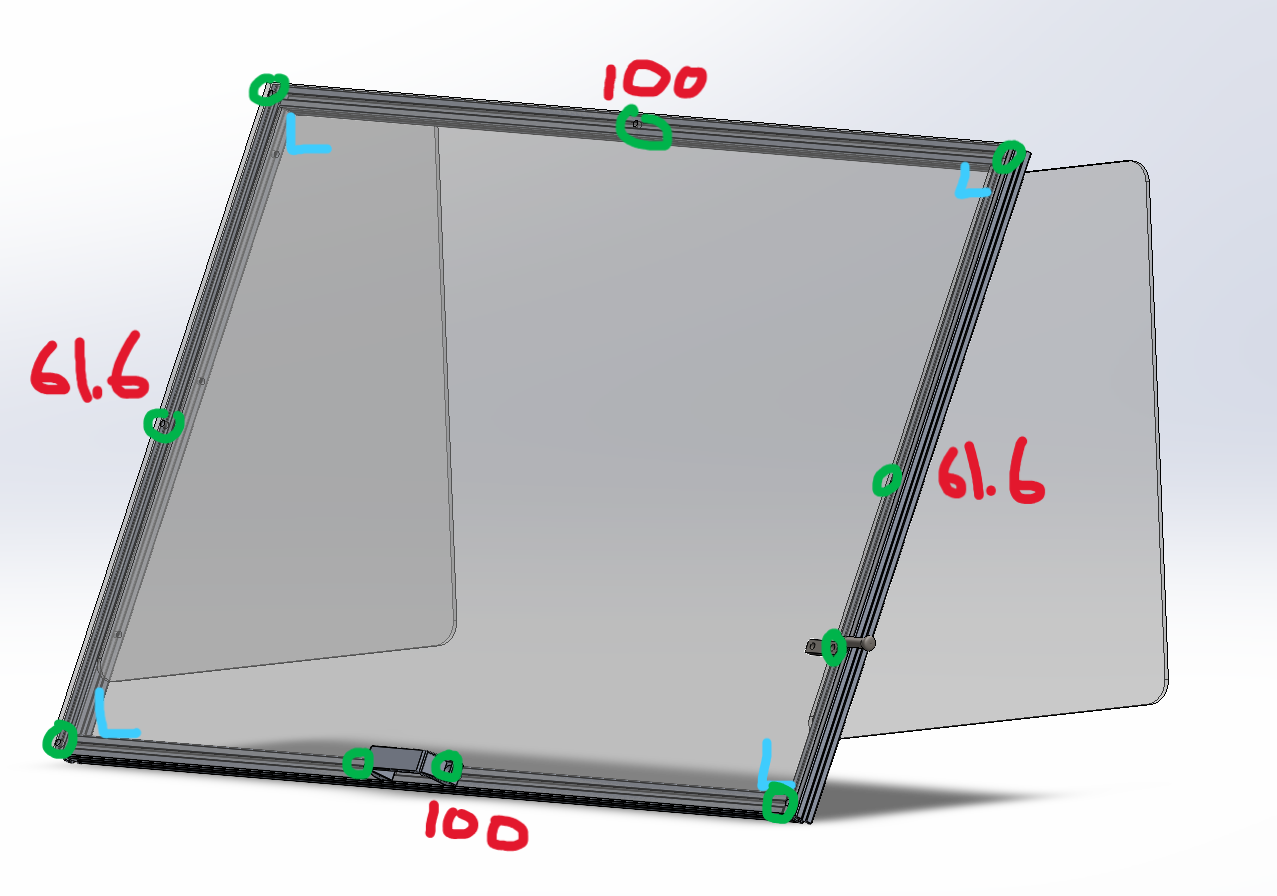
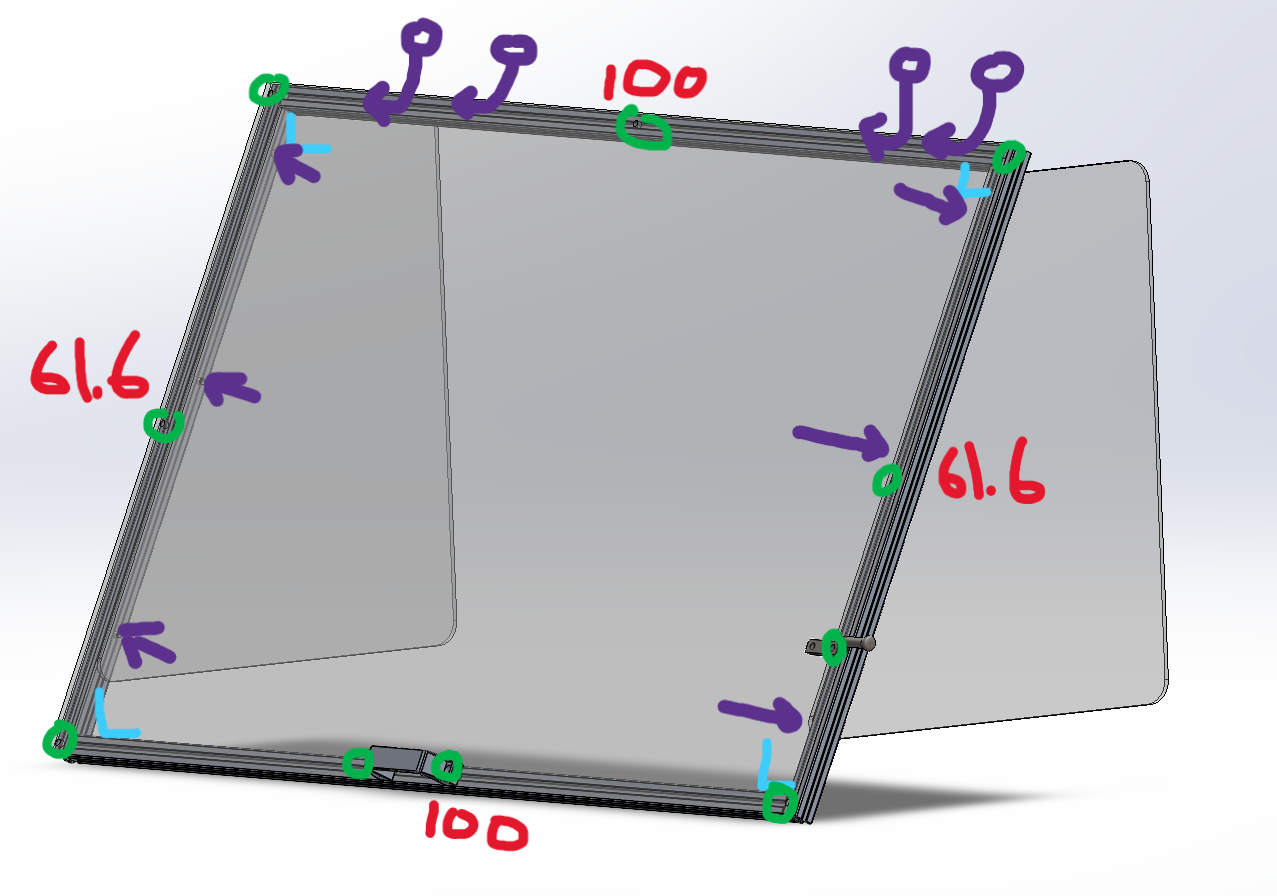
Edited assembly instructions and fixed bugs

diff --git a/docs/assembly_instructions.md b/docs/assembly_instructions.md
@@ -4,7 +4,7 @@ This document attempts to walk through the process of assembling the system with
 
 ## General Notes
 
-- The economy T square nuts used for the 8020 pieces must be inserted before the channel that is cut into the 8020 profile that holds them in place is closed (i.e. they are not roll-in nuts). Before securing two 8020 profiles together, make sure all of the required T nuts have been placed in the profile. To move the T nuts within the profile so that they line up with holes in the acrylic, or L brackets.
+- The economy T square nuts used for the 8020 pieces must be inserted before the channel that is cut into the 8020 profile that holds them in place is closed (i.e. they are not roll-in nuts). Before securing two 8020 profiles together, make sure all of the required T nuts have been placed in the profile. A small allen key can be very useful to move the T nuts within the profile so that they line up with holes in the acrylic or L brackets.
 - M5-0.8 8mm screws are used to connect the L brackets with the 20 series beams.
 - M5-0.8 10mm screws are used to connect the acrylic panels with the 20 series beams.
 - **Do not** overtighten screws and nuts that hold acrylic to the 20 series beams. The acrylic will crack! The acrylic is not a structurally important part of the cover by design, so the bolts do not need to be overtightened. Tighten until snug and that should be fine.
@@ -20,15 +20,15 @@ The Button Board should be assembled by hand. Ensure that the lever switch is or
 
 ## Step 2: The Cover
 
-Assemble the section shown in the image below, with annotations indicating the lengths of the 20 series beams, the locations of the 4 L brackets, and the locations of the M5 bolts that are bolted into the cover top acrylic panel. Make sure that before closing the rectangle of 20 series beams, you put three T nuts into the inside edge of the 61.6 cm beams for securing the side panels at the end. Also make sure that you put four T nuts in the back of the top 100 cm beam for connection with the hinges.
+Assemble the section shown in the image below, with annotations indicating the lengths of the 20 series beams (in red), the locations of the 4 L brackets (in blue), and the locations of the M5 bolts that are bolted into the cover top acrylic panel (in green). The purple arrows indicate the locations of the holes where the side panels are to be screwed in. The purple circle indicate the locations of 4 T nuts that need to inserted into the back of the top 100 cm beam which will accomodate the screws for the hinges in a later step.
 
 ![cover-diagram](https://raw.githubusercontent.com/benliao1/HV-Enclosure/master/docs/screenshots/cover.png)
 
-Assemble the two hinge assemblies, connect them with the electronics support bar, and attach the button board assembly as shown in the annotated image below. The 3D-printed button board holder should be connected to the 15 cm beam with 10mm M5 bolts. Use the 3-56 bolts to secure the Button Board to the button board holder into the top and bottom holes of the button board holder (the three middle holes are for the 3 leads of the lever switch). The lengths of the beams are annotated on the diagram, along with the locations of the L brackets. The purple circles indicate the locations of T nuts for connection with the electrical boxes later; four on the front of the beam, and four on the back of the beam. Make sure that you use 4 M5-0.8 10mm flat-head screws to attach the hinges to the the 6 cm beams.
+Assemble the two hinge assemblies, connect them with the electronics support bar, and attach the button board assembly as shown in the annotated image below. The 3D-printed button board holder should be connected to the 15 cm beam with 10mm M5 bolts. Use the #3-56 bolts to secure the Button Board to the button board holder into the top and bottom holes of the button board holder (the three middle holes are for the 3 leads of the lever switch). The lengths of the beams are annotated on the diagram, along with the locations of the L brackets. The purple circles indicate the locations of T nuts for connection with the electrical boxes later; four on the front of the beam, and four on the back of the beam. Make sure that you use 4 M5-0.8 10mm **flat-head screws** to attach the hinges to the the 6 cm beams.
 
 ![hinge-assembly-diagram](https://raw.githubusercontent.com/benliao1/HV-Enclosure/master/docs/screenshots/hinge_assembly.png)
 
-Connect the hinge assembly to the cover with the remaining M5-0.8 10mm flat-head screws. Step 2 is complete when the assembly looks like the image below.
+Connect the hinge assembly to the cover with the remaining M5-0.8 10mm **flat-head screws**. Step 2 is complete when the assembly looks like the image below.
 
 ![cover-assembly-complete](https://raw.githubusercontent.com/benliao1/HV-Enclosure/master/docs/screenshots/cover_assembly_complete.png)
 
@@ -42,7 +42,7 @@ Attach the bleeder resistor assemblies to the bottom acrylic panel. Ensure that 
 
 ![hv-electrical-box-1](https://raw.githubusercontent.com/benliao1/HV-Enclosure/master/docs/screenshots/hv_electrical_box_1.png)
 
-Attach the contactors to the bottom acrylic panel. Use #8-32 screws (no nylon spacers necessary). Leave some play in the screws so that the position of the contactors can be adjusted to fit the HV Board PCB. Attach the four #4-40 3" standoffs to the bottom panel as well with #4-40 screws. When finished with this step, the box should look like this:
+Attach the contactors to the bottom acrylic panel. Use #8-32 screws (no nylon spacers necessary). Note the direction the contactors are placed (the port for the contactor connection accessory should be on the left side, looking from the front of the box). Leave some play in the screws so that the position of the contactors can be adjusted to fit the HV Board PCB. Attach the four #4-40 3" standoffs to the bottom panel as well with #4-40 screws. When finished with this step, the box should look like this:
 
 ![hv-electrical-box-2](https://raw.githubusercontent.com/benliao1/HV-Enclosure/master/docs/screenshots/hv_electrical_box_2.png)
 
@@ -56,7 +56,7 @@ Left view:
 
 Attach the contactor connector accessories to the Main Board PCB, then attach the Main Board PCB to the acrylic front panel using the two #4-40 1" standoffs and #4-40 screws. Then, insert the contactor connector accessories into the ports on the side of the contactors. When finished with this step, the box should look something like this (of course, the front panel will not stand on its own like in the picture; you can lay it face-down for now):
 
-![hv-electrical-box-4]https://raw.githubusercontent.com/benliao1/HV-Enclosure/master/docs/screenshots/hv_electrical_box_4.png)
+![hv-electrical-box-4](https://raw.githubusercontent.com/benliao1/HV-Enclosure/master/docs/screenshots/hv_electrical_box_4.png)
 
 Push the head of the barrel jack output of the 120V-12V AC-DC converter through the large hole in the acrylic back panel and pull it through. Attach it to the Main Board PCB. Now, the box should look something like this (again, the front and back panels will not stand on their own like in the picture; you can lay both of the face-down for now):
 
@@ -104,6 +104,6 @@ This completes Step 4.
 
 Attach the boxes to the beam on the cover using the gusseted L brackets without guides from 8020.net. Below is an annotated diagram showing where the L brackets go:
 
-![boxes-to-beam-diagram]https://raw.githubusercontent.com/benliao1/HV-Enclosure/master/docs/screenshots/boxes_to_cover_beam.png)
+![boxes-to-beam-diagram](https://raw.githubusercontent.com/benliao1/HV-Enclosure/master/docs/screenshots/boxes_to_cover_beam.png)
 
 This completes Step 5. The finished cover can now be mounted to the desk, and a gate latch fitted in a suitable place on the top shelf.
